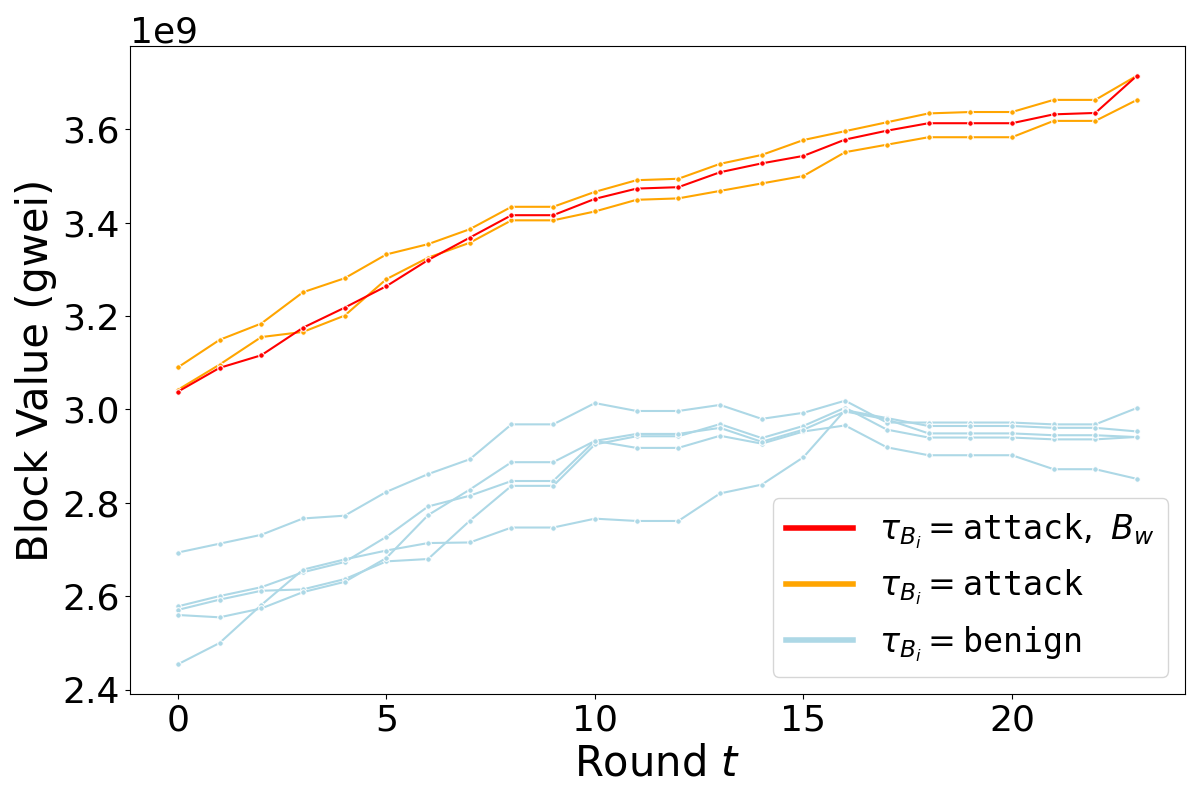
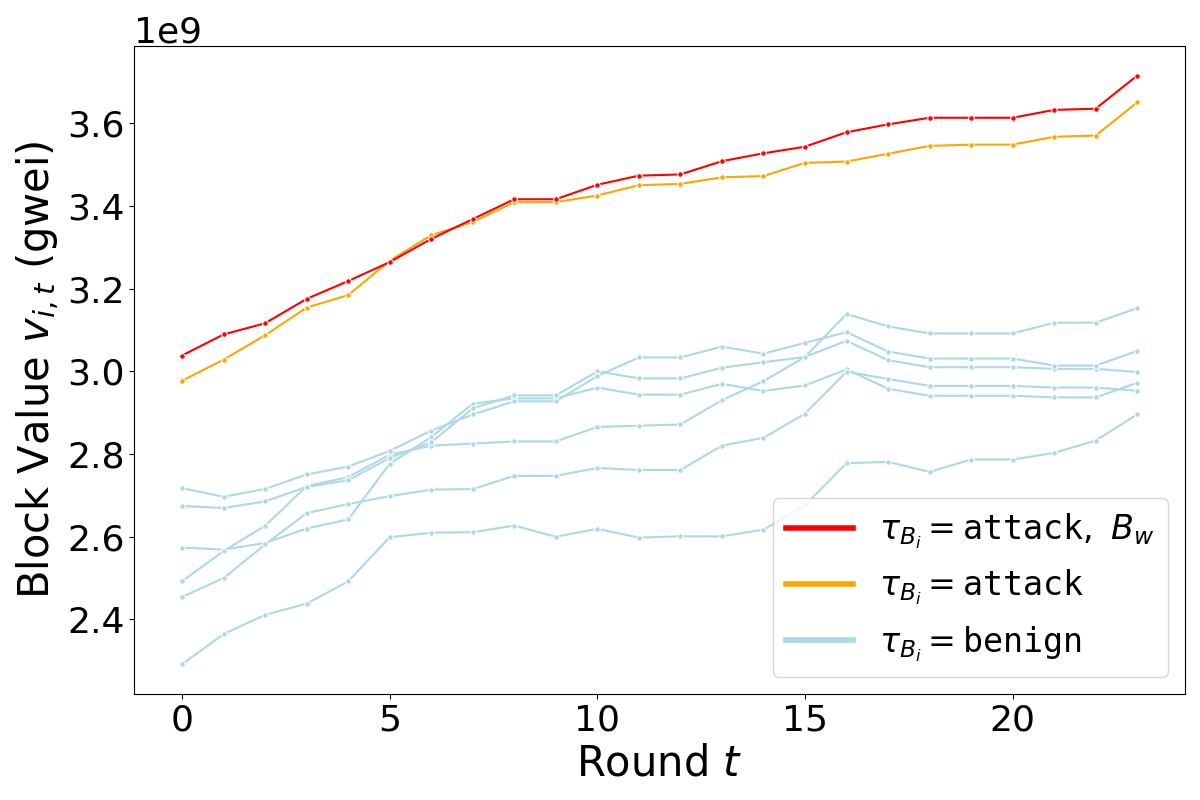
update

diff --git a/plots/ss/bidding_dynamic.py b/plots/ss/bidding_dynamic.py
@@ -77,7 +77,7 @@ def plot_bid_dynamics(file_path, block_number):
     plt.legend(handles=legend_handles, loc="lower right", fontsize=24)
 
     plt.xlabel(r"Round $t$", fontsize=30)
-    plt.ylabel('Bid Value (gwei)', fontsize=30)
+    plt.ylabel('Bid Value $b_{i,t}$ (gwei)', fontsize=30)
     plt.tick_params(axis='both', which='major', labelsize=26)
     plt.gca().yaxis.get_offset_text().set_fontsize(26)
     plt.tight_layout()
@@ -197,7 +197,7 @@ def plot_block_value_dynamics(file_path, block_number):
     plt.legend(handles=legend_handles, loc="lower right", fontsize=24)
 
     plt.xlabel(r"Round $t$", fontsize=30)
-    plt.ylabel('Block Value (gwei)', fontsize=30)
+    plt.ylabel('Block Value $v_{i,t}$ (gwei)', fontsize=30)
     plt.tick_params(axis='both', which='major', labelsize=26)
     plt.gca().yaxis.get_offset_text().set_fontsize(26)
     plt.tight_layout()
